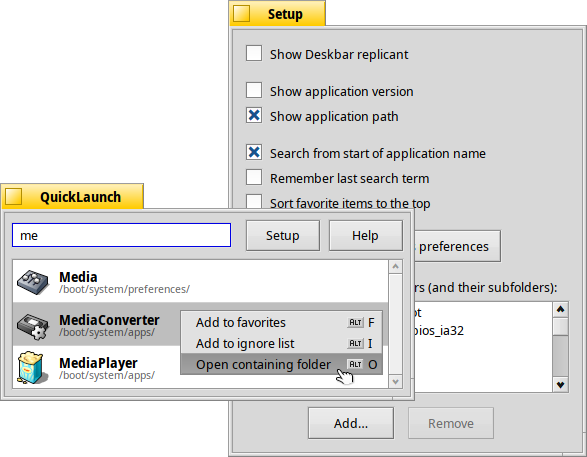
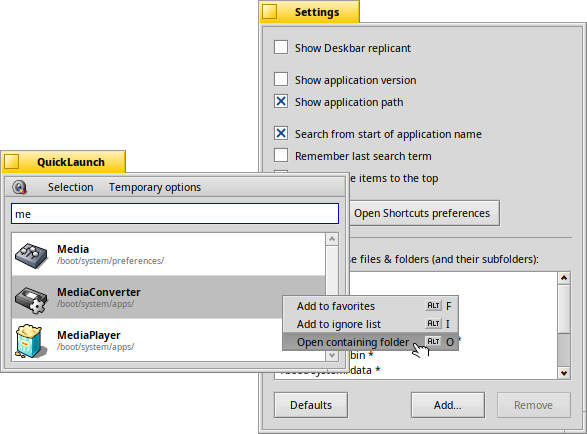
Updated documentation

diff --git a/documentation/ReadMe.html b/documentation/ReadMe.html
@@ -89,12 +89,12 @@ h3 {
 </head>
 <body>
 <div align = "center">
-<img width="64" height="64" src="./images/quicklaunch_icon_64.png" alt="QuickLaunch icon" />
+<img width="64" height="64" src="./images/icon_64.png" alt="QuickLaunch icon" />
 <p><span style="font-size: 1.5em; font-weight:bold">QuickLaunch</span><br />
 for <a href="https://www.haiku-os.org">Haiku</a><br />
 <i>by Humdinger</i></p>
 <hr />
-<p id="index"><a href="#favorites">Favorites</a> — <a href="#setup">Setup</a> — <a href="#tips">Tips &amp; Tricks</a><br />
+<p id="index"><a href="#favorites">Favorites</a> — <a href="#settings">Settings</a> — <a href="#menus">Menus</a> — <a href="#tips">Tips &amp; Tricks</a><br />
 <a href="#download">Download</a> — <a href="#bugs_feedback">Bugreports &amp; Feedback</a> — <a href="#thanks">Thanks</a> — <a href="#history">History</a></p>
 </div>
 <hr />
@@ -102,8 +102,8 @@ for <a href="https://www.haiku-os.org">Haiku</a><br />
 <p>QuickLaunch is a small launcher tool that helps you to quickly start any installed application.</p>
 <p>Simply start to enter the name of an application and QuickLaunch will find all programs matching these initial letters and show them in a list. You choose an app from that list with the <span class="key">↑</span> <span class="key">↓</span> keys and launch it by hitting <span class="key">RETURN</span>. <span class="key">ESC</span> quits QuickLaunch.</p>
 
-<p>Here's the main window after searching for all applications starting with "me" and behind it the settings window when clicking the <span class="button">Setup</span> button (or pressing <span class="key">ALT</span>+<span class="key">S</span>:</p>
-<div align = "center">
+<p>Here's the main window after searching for all applications starting with "me" and behind it QuickLaunch's settings window:</p>
+<div align="center">
 <img src="./images/quicklaunch.png" alt="QuickLaunch windows" />
 </div>
 <p>In the main window the context menu was invoked via a right-click.<br />
@@ -111,23 +111,23 @@ The first item adds the selected app to your favorites which will be shown whene
 The second item adds the app to the ignore list (key-combo: <span class="key">ALT</span>+<span class="key">I</span>; works also with a drag &amp; drop into the ignore list of the setup window). More on that in the setup options discussed below.<br />
 The final item opens the app's location in a Tracker window (key-combo: <span class="key">ALT</span>+<span class="key">O</span> or <span class="key">CTRL</span>+<span class="key">RETURN</span>).</p>
 
-<p>The <span class="button">Help</span> button, or pressing <span class="key">ALT</span>+<span class="key">H</span>, opens this ReadMe in the browser.</p>
+<p>Those menu items are also found und <span class="menu">Selection</span> in the menu bar.</p>
 
 <h2>
 <a href="#"><img src="images/up.png" style="border:none;float:right" alt="index" /></a>
 <a id="favorites" name="setup">Favorites</a></h2>
 
 <p>Your list of favorite applications is shown whenever the search field is empty, e.g. right when you start QuickLaunch.</p>
-<div align = "center">
-<img src="./images/quicklaunch_favorites.png" alt="QuickLaunch favorites" />
+<div align="center">
+<img src="./images/favorites.png" alt="QuickLaunch favorites" />
 </div>
 <p>The background of favorites is slightly tinted yellow and a little yellow star is added to their icon to distinguish them from a regular search result.</p>
 <p>You add favorites by right-clicking an app's entry in a search result list and choosing <span class="menu">Add to favorites</span> or pressing <span class="key">ALT</span>+<span class="key">F</span>.<br />
 Similarly, you remove a favorite again by right-clicking it and selecting <span class="menu">Remove favorite</span> or with <span class="key">ALT</span>+<span class="key">R</span>.</p>
 <p>You can also create a favorite by dragging a file from any Tracker window onto your favorites' list. Even better: The dropped file doesn't have to be an application. Any file or folder will do. Non-application favorites are tinted slightly green to distinguish them from your app favorites.</p>
 
-<p><img src="./images/quicklaunch_replicant.png" alt="QuickLaunch replicant favorites" align="left" valign="middle" vspace="5" hspace="32"/>The Deskbar replicant can be activated from the Setup window (see below). It installs the QuickLaunch icon into the Deskbar tray, alongside the clock and the replicants of other applications.<br />
-A right-click on it also offers quick access to your favorites.</p>
+<p><img src="./images/replicant.png" alt="QuickLaunch replicant favorites" align="left" valign="middle" vspace="5" hspace="32"/>The Deskbar replicant can be activated from the Settings window (see below). It installs the QuickLaunch icon into the Deskbar tray, alongside the clock and the replicants of other applications.<br />
+A left-click starts QuickLaunch, a right-click offers quick access to your favorites.</p>
 <p><br /></p>
 <p><br /></p>
 <p><br /></p>
@@ -135,11 +135,11 @@ A right-click on it also offers quick access to your favorites.</p>
 
 <h2>
 <a href="#"><img src="images/up.png" style="border:none;float:right" alt="index" /></a>
-<a id="setup" name="setup">Setup</a></h2>
+<a id="settings" name="settings">Settings</a></h2>
 
-<p>The setup window, invoked with the <span class="button">Setup</span> button or <span class="key">ALT</span>+<span class="key">S</span>:</p>
-<div align = "center">
-<img src="./images/quicklaunch_setup.png" alt="QuickLaunch setup" />
+<p>The Settings window, invoked from the app-icon menu or with <span class="key">ALT</span>+<span class="key">,</span>:</p>
+<div align="center">
+<img src="./images/settings.png" alt="QuickLaunch settings" />
 </div>
 <ul>
 <li><p><span class="menu">Show Deskbar replicant</span> — puts the QuickLaunch icon into the Deskbar tray. A left-click on it starts QuickLaunch, with a right-click you can start your favorite applications directly from the context menu.</p></li>
@@ -153,19 +153,54 @@ A right-click on it also offers quick access to your favorites.</p>
 You can also right-click an app in the main window's result list to add that specific app to the ignore list or drag &amp; drop any application or folder from Tracker or an app from QuickLaunch's main window into it.<br />
 <span class="key">DEL</span> removes the selected items from the ignore list.</p>
 <p>If you add a folder instead of a file, QuickLaunch will ignore all the files and subfolders it contains. Those items are marked with a "<tt>*</tt>" in the list and are printed in italics.</p></li>
+<li><p>QuickLaunch has a number of files and folders (*) on the ignore list by default, that would return normally unwanted matches:</p>
+<ul>
+<li><tt>/system/add-ons/</tt> *</li>
+<li><tt>/system/bin/</tt> *</li>
+<li><tt>/system/data/</tt> *</li>
+<li><tt>/system/lib/</tt> *</li>
+<li><tt>/system/servers/</tt> *</li>
+<li><tt>/system/haiku_loader.bios_ia32</tt></li>
+<li><tt>/system/kernel_x86_64</tt></li>
+<li><tt>/system/runtime_loader</tt></li>
 </ul>
+<p>You can remove any of them if you need to. Clicking <span class="button">Defaults</span> will reinstate them without removing any of your own additions to the ignore list.</p></li>
+</ul>
+
+<h2>
+<a href="#"><img src="images/up.png" style="border:none;float:right" alt="index" /></a>
+<a id="menus" name="menus">Menus</a></h2>
+<table border="0">
+<tr><td valign="top"><img src="./images/menu-app.png" alt="The app-icon menu" align="right" /></td><td width="20px"></td>
+<td valign="top">
+<p>Those menu items are all pretty self-explanatory.</p>
+<p><span class="menu">Settings…</span> opens the settings window. <span class="menu">Help</span> opens the documentation you're currently reading. <span class="menu">About QuickLaunch</span> shows the app's version, copyright, credits etc. and
+<span class="menu">Quit</span> exits the app, same as <span class="key">ESC</span>.</p>
+</td></tr>
+<tr><td colspan="3"><p></p></td></tr>
+<tr><td valign="top"><img src="./images/menu-selection.png" alt="The selection menu" align="right" /></td><td width="20px"></td>
+<td valign="top">
+<p>These menu items pertain to the currently selected list item.</p>
+<p>If the item happens to be a 'favorite', you can <span class="menu">Remove favorite</span>. Otherwise you can <span class="menu">Add to favorites</span> or <span class="menu">Add to ignore list</span>. <span class="menu">Open containing folder</span> opens the item's location in a Tracker window.</p>
+<p>This menu is also available from the context menu when you right-click an item.</p>
+</td></tr>
+<tr><td valign="top"><img src="./images/menu-temp-options.png" alt="The temporaray options menu" align="right" /></td><td width="20px"></td>
+<td valign="top">
+<p>The <span class="menu">Temporary options</span> override the configurations in the Settings window. These options are not saved, next time you start QuickLaunch the usual settings are in effect.</p>
+<p>These options are most conveniently applied via their keyboard shortcuts. For example, you may usually prefer to show neither path nor version. Only some searches return several different versions of the same app. Then it's handy to quickly show their path/version with <span class="key">ALT</span>+<span class="key">P</span>&nbsp;/&nbsp;<span class="key">V</span>.<br/>
+Sometimes it's also useful not to limit the search to the start of application names (<span class="key">ALT</span>+<span class="key">S</span>), or to temporarily disable the ignore list (<span class="key">ALT</span>+<span class="key">A</span>).</p>
+</td></tr>
+</table>
 
 <h2>
 <a href="#"><img src="images/up.png" style="border:none;float:right" alt="index" /></a>
 <a id="tips" name="tips">Tips &amp; Tricks</a></h2>
 <ul>
 <li><p>Assign a keycombo to QuickLaunch in Haiku's Shortcuts preferences, like <span class="key">OPT</span>+<span class="key">SPACEBAR</span>, for even quicker QuickLaunching apps.</p></li>
-<li><p>If you don't want to deactivate the option <span class="menu">Search from start of application name</span> in general, but just once in a while would like to search within an app name, you can use a '<tt>*</tt>' as a wildcard. E.g. "<tt>*player</tt>" will find '<tt>MediaPlayer</tt>' and '<tt>MidiPlayer</tt>'.</p></li>
 <li><p>You can create a favorite by dragging any file &ndash; not just an application &ndash; from any Tracker window onto your favorites' list.</p></li>
 <li><p><span class="key">SHIFT</span>+<span class="key">RETURN</span> will keep the QuickLaunch window open after launching the app.</p></li>
-<li><p>These two folders are ignored by default: <span style="font-family: monospace">/system/add-ons/</span> and <span style="font-family: monospace">Trash</span><br />
-In other words, applications in Trash are ignored, as well as add-ons.<br />
-<span style="font-family: monospace">/system/bin/</span> used to be ignored, but since especially ported software often ends up in the /bin folder, that is a bad idea. You'll have to remove unwanted commandline apps manually now, i.e. via <span class="menu">Add to ignore list</span> of the context menu.</p></li>
+<li><p>The <span style="font-family: monospace">Trash</span> is the only folder that is permanently ignored. Anything else is handled with the ignore list of the Settings window.<br />
+<span style="font-family: monospace">/system/bin/</span> is on the ignore list by default, but since especially ported software often ends up in the /bin folder, you may want to remove it from there and ignore unwanted commandline apps individually instead.</p></li>
 <li>There are two reasons why an application may not be found by QuickLaunch:
 <ol>
 <li>The application isn't located on a BFS partition or the BFS partition wasn't formatted to support queries.</li>
